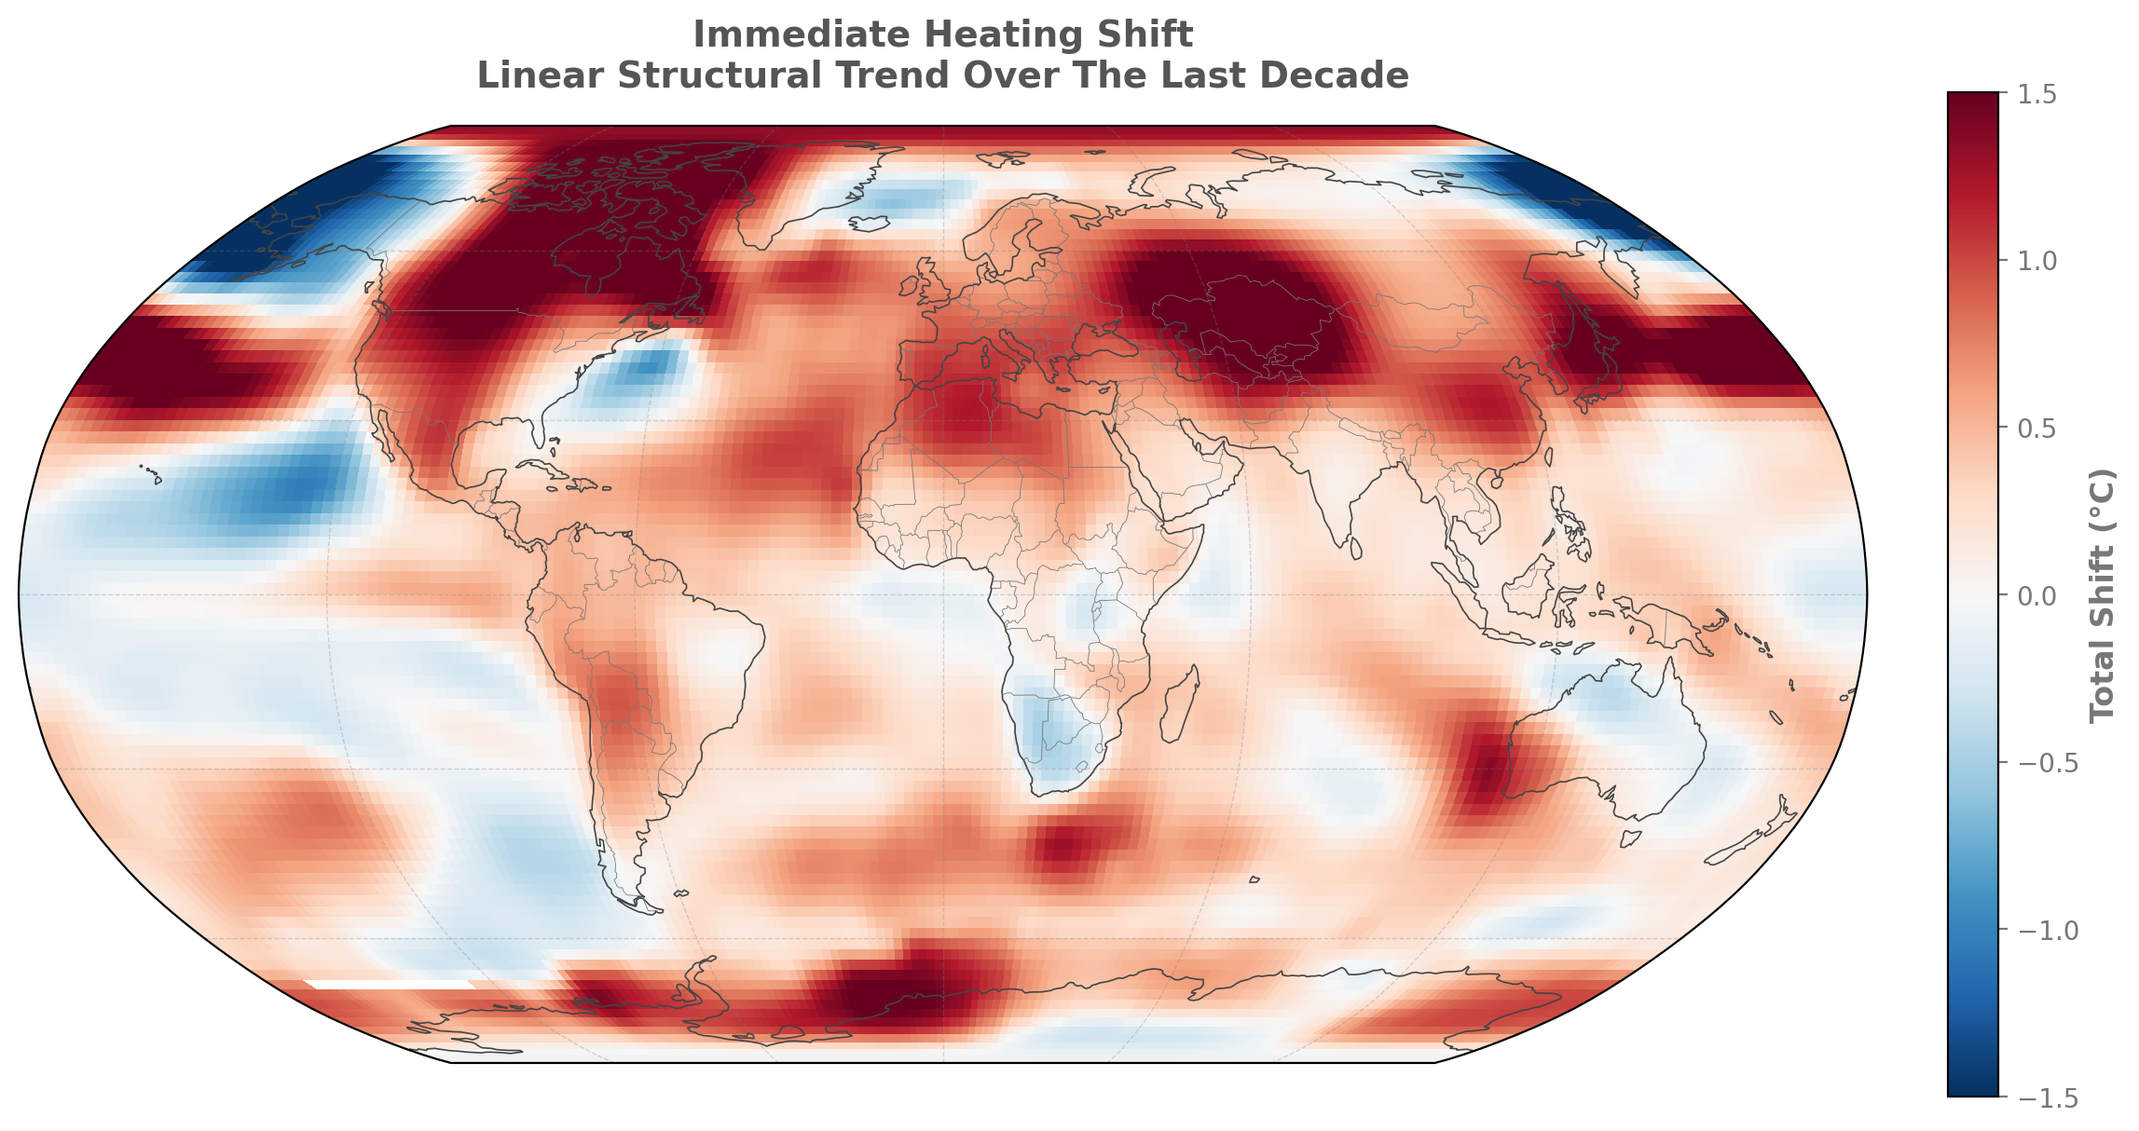
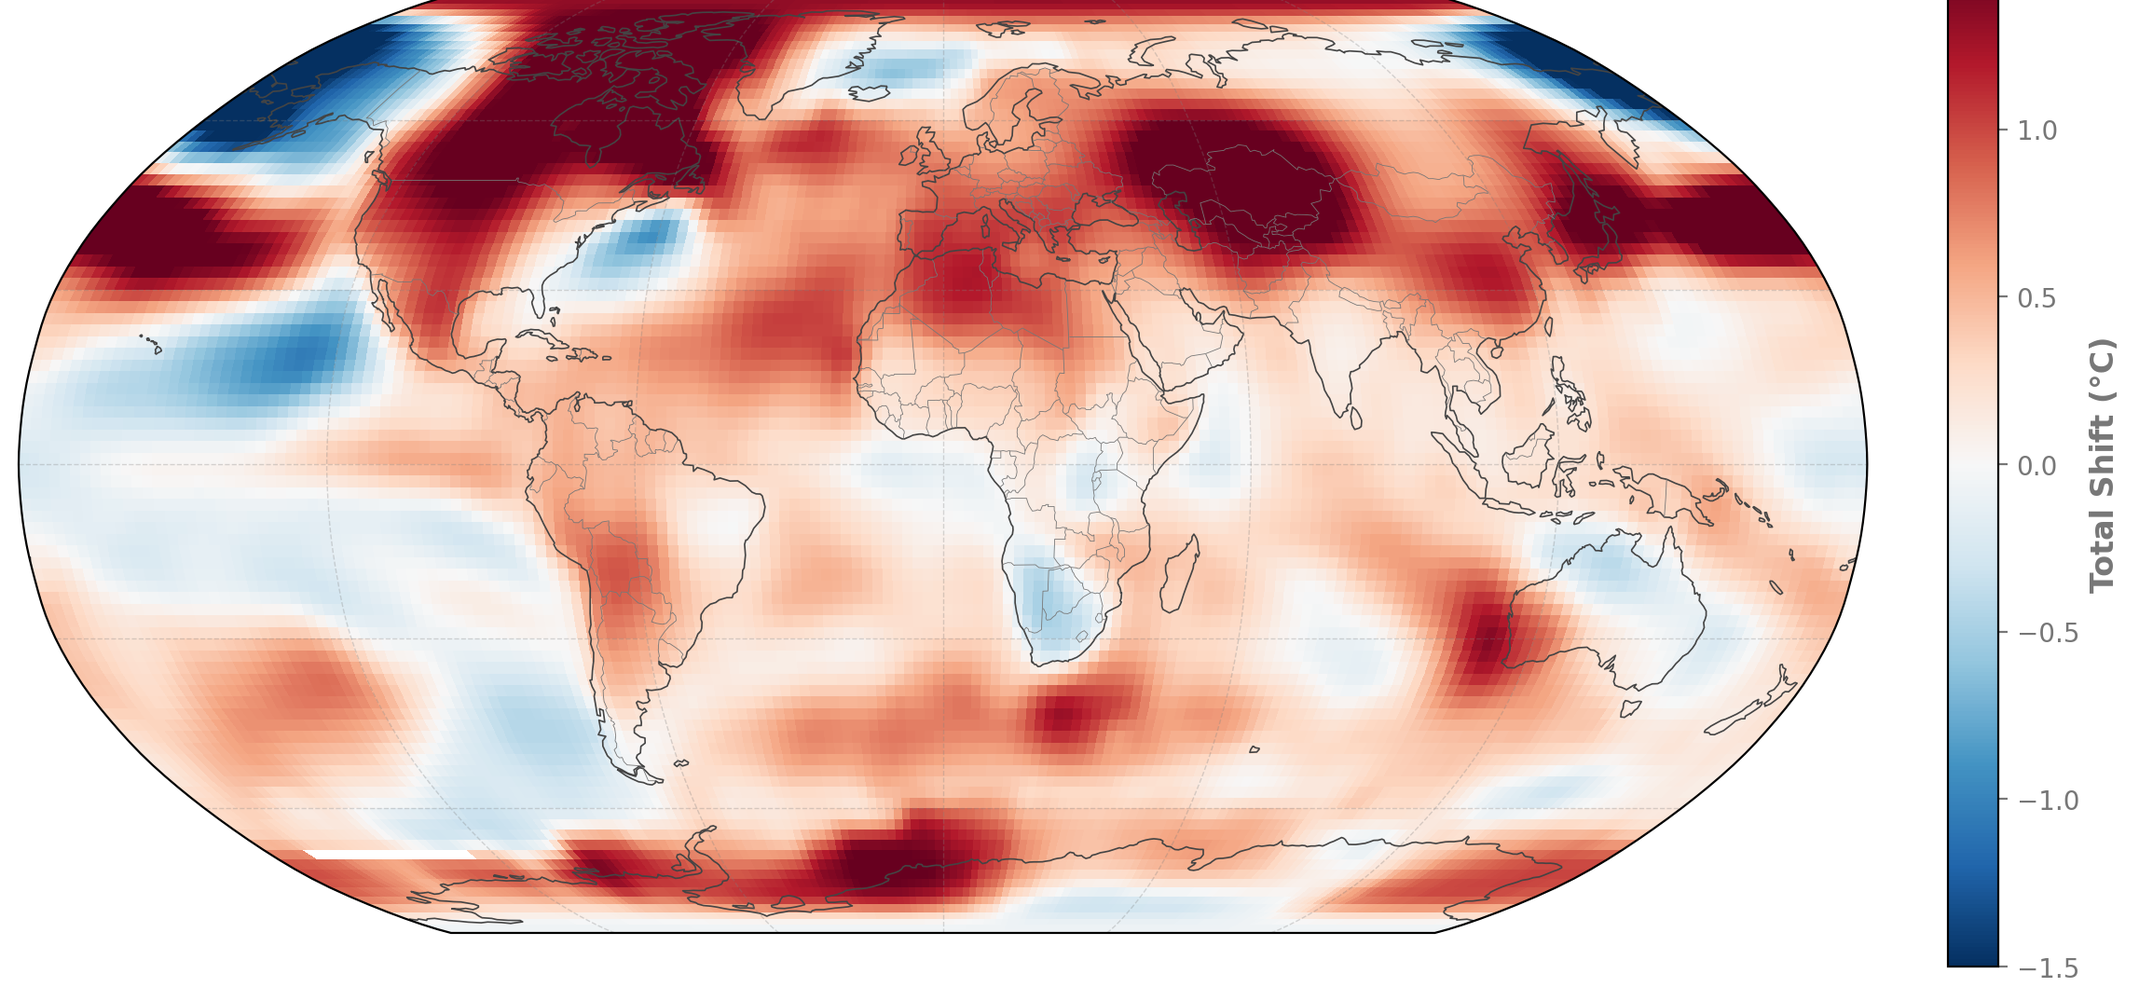
Add dataset attribution to Figure 1 and crop embedded titles out of map images

diff --git a/public/projects/global-temperature-tracker/assets/index-u014DEU0.js b/public/projects/global-temperature-tracker/assets/index-u014DEU0.js
@@ -126,4 +126,4 @@ Error generating stack: `+e.message+`
              object-fit: contain;
              filter: ${t?`brightness(0.9) contrast(1.1)`:`none`};
           }
-        `}),(0,Q.jsx)(`div`,{className:`map-container`,children:(0,Q.jsx)(iK.img,{src:`./gistemp_variance_trend_map.png`,alt:`Visualization of accelerating or decelerating geospatial climate variance volatility matrices spanning historically rolling distributions`,className:`map-image`,initial:{opacity:0,scale:.98},animate:{opacity:1,scale:1},transition:{duration:.6}})}),(0,Q.jsx)(`p`,{style:{marginTop:`12px`,fontSize:`0.85rem`,color:t?`#9ca3af`:`#6b7280`,textAlign:`center`},children:`Dataset: NASA GISTEMP v4. Volatility mapped as the least-squares structural trend calculated continuously against rolling 5-year internal standard deviation vectors globally.`})]})},uK=(...e)=>e.filter((e,t,n)=>!!e&&e.trim()!==``&&n.indexOf(e)===t).join(` `).trim(),dK=e=>e.replace(/([a-z0-9])([A-Z])/g,`$1-$2`).toLowerCase(),fK=e=>e.replace(/^([A-Z])|[\s-_]+(\w)/g,(e,t,n)=>n?n.toUpperCase():t.toLowerCase()),pK=e=>{let t=fK(e);return t.charAt(0).toUpperCase()+t.slice(1)},mK={xmlns:`http://www.w3.org/2000/svg`,width:24,height:24,viewBox:`0 0 24 24`,fill:`none`,stroke:`currentColor`,strokeWidth:2,strokeLinecap:`round`,strokeLinejoin:`round`},hK=e=>{for(let t in e)if(t.startsWith(`aria-`)||t===`role`||t===`title`)return!0;return!1},gK=(0,b.createContext)({}),_K=()=>(0,b.useContext)(gK),vK=(0,b.forwardRef)(({color:e,size:t,strokeWidth:n,absoluteStrokeWidth:r,className:i=``,children:a,iconNode:o,...s},c)=>{let{size:l=24,strokeWidth:u=2,absoluteStrokeWidth:d=!1,color:f=`currentColor`,className:p=``}=_K()??{},m=r??d?Number(n??u)*24/Number(t??l):n??u;return(0,b.createElement)(`svg`,{ref:c,...mK,width:t??l??mK.width,height:t??l??mK.height,stroke:e??f,strokeWidth:m,className:uK(`lucide`,p,i),...!a&&!hK(s)&&{"aria-hidden":`true`},...s},[...o.map(([e,t])=>(0,b.createElement)(e,t)),...Array.isArray(a)?a:[a]])}),yK=(e,t)=>{let n=(0,b.forwardRef)(({className:n,...r},i)=>(0,b.createElement)(vK,{ref:i,iconNode:t,className:uK(`lucide-${dK(pK(e))}`,`lucide-${e}`,n),...r}));return n.displayName=pK(e),n},bK=yK(`thermometer`,[[`path`,{d:`M14 4v10.54a4 4 0 1 1-4 0V4a2 2 0 0 1 4 0Z`,key:`17jzev`}]]),xK=yK(`triangle-alert`,[[`path`,{d:`m21.73 18-8-14a2 2 0 0 0-3.48 0l-8 14A2 2 0 0 0 4 21h16a2 2 0 0 0 1.73-3`,key:`wmoenq`}],[`path`,{d:`M12 9v4`,key:`juzpu7`}],[`path`,{d:`M12 17h.01`,key:`p32p05`}]]);function SK(){let[e,t]=(0,b.useState)(null),[n,r]=(0,b.useState)(null),[i,a]=(0,b.useState)(!0),[o,s]=(0,b.useState)(null),[c,l]=(0,b.useState)(`light`),[u,d]=(0,b.useState)(`long-term`);return(0,b.useEffect)(()=>{Promise.all([fetch(`./data.json`).then(e=>{if(!e.ok)throw Error(`Failed to fetch primary data`);return e.json()}),fetch(`./cmip6_data.json`).then(e=>{if(!e.ok)throw Error(`Failed to fetch CMIP6 proxy data`);return e.json()})]).then(([e,n])=>{t(S(e)),r(n),a(!1)}).catch(e=>{console.error(e),s(e.message),a(!1)})},[]),i?(0,Q.jsxs)(`div`,{className:`loading-container`,children:[(0,Q.jsx)(iK.div,{animate:{rotate:360},transition:{duration:1.5,repeat:1/0,ease:`linear`},children:(0,Q.jsx)(bK,{size:48,color:`#555`})}),(0,Q.jsx)(`p`,{className:`loading-text`,children:`Loading dataset...`})]}):o?(0,Q.jsxs)(`div`,{className:`error-container`,children:[(0,Q.jsx)(xK,{size:48,className:`error-icon`}),(0,Q.jsx)(`h2`,{className:`error-title`,children:`Data Acquisition Failed`}),(0,Q.jsx)(`p`,{children:o})]}):(0,Q.jsxs)(`div`,{className:`app-wrapper`,children:[(0,Q.jsxs)(`div`,{className:`container`,style:{paddingBottom:0},children:[(0,Q.jsxs)(`header`,{className:`app-header`,children:[(0,Q.jsxs)(`div`,{className:`header-title-container`,children:[(0,Q.jsx)(`h1`,{className:`header-title`,children:`Daily Surface Air Temperature`}),(0,Q.jsx)(`p`,{className:`header-subtitle`,children:`World (90°S–90°N, 0–360°E)`}),(0,Q.jsxs)(`div`,{style:{display:`flex`,gap:`10px`,marginTop:`20px`},children:[(0,Q.jsx)(`button`,{onClick:()=>d(`long-term`),style:{padding:`8px 16px`,borderRadius:`6px`,border:`1px solid ${c===`dark`?`#555`:`#ddd`}`,backgroundColor:u===`long-term`?c===`dark`?`#3b82f6`:`#2563eb`:`transparent`,color:u===`long-term`?`#fff`:c===`dark`?`#ccc`:`#333`,cursor:`pointer`,fontWeight:u===`long-term`?`bold`:`normal`,transition:`all 0.2s`},children:`Long-Term Trends`}),(0,Q.jsx)(`button`,{onClick:()=>d(`focus-2026`),style:{padding:`8px 16px`,borderRadius:`6px`,border:`1px solid ${c===`dark`?`#555`:`#ddd`}`,backgroundColor:u===`focus-2026`?c===`dark`?`#3b82f6`:`#2563eb`:`transparent`,color:u===`focus-2026`?`#fff`:c===`dark`?`#ccc`:`#333`,cursor:`pointer`,fontWeight:u===`focus-2026`?`bold`:`normal`,transition:`all 0.2s`},children:`2026 Focus`})]})]}),(0,Q.jsx)(`button`,{onClick:()=>{let e=c===`light`?`dark`:`light`;l(e),document.documentElement.setAttribute(`data-theme`,e)},className:`theme-toggle`,"aria-label":`Toggle theme`,children:c===`light`?`Dark Mode`:`Light Mode`})]}),(0,Q.jsxs)(`main`,{className:`app-main`,children:[u===`long-term`&&(0,Q.jsxs)(Q.Fragment,{children:[(0,Q.jsxs)(`section`,{className:`chart-section`,style:{marginBottom:`20px`},children:[(0,Q.jsxs)(`div`,{className:`figure-intro`,children:[(0,Q.jsx)(`h3`,{children:`Model Projections vs. Observations`}),(0,Q.jsx)(`p`,{className:`figure-lead`,children:`A comparison of historical global average surface temperatures against the CMIP6 climate model ensemble. This helps visualize where recent warming sits relative to the long-term modeled uncertainty envelope.`}),(0,Q.jsx)(`p`,{children:`The colorful dots clustered around 2026/27 show expert predictions for near-term global temperatures. The gray dashed line outlines a plausible scenario for the trajectory; intuitively, we expect 2027 to break global records due to the forecasted El Niño event, followed by a brief period of stabilization. The pink envelope highlights uncertainty bounds using climate models screened for accurate historical sensitivity, while the gray envelope represents the broader, unscreened range of climate simulations. The vertical orange band highlights the period when the 10-year average temperature is likely to cross the 1.5°C (above pre-industrial) threshold.`})]}),(0,Q.jsx)(`div`,{className:`chart-content`,children:(0,Q.jsx)(SF,{data:n,theme:c})})]}),(0,Q.jsxs)(`section`,{className:`chart-section`,style:{marginBottom:`20px`},children:[(0,Q.jsxs)(`div`,{className:`figure-intro`,children:[(0,Q.jsx)(`h3`,{children:`Long-term Global Warming Trend`}),(0,Q.jsx)(`p`,{children:`Spatial distribution of long-term warming trends calculated across the global surface. Blue areas denote cooling or slower warming, while dark reds highlight regions (such as the Arctic) experiencing outsized warming.`})]}),(0,Q.jsx)(aK,{theme:c})]}),(0,Q.jsxs)(`section`,{className:`chart-section`,style:{marginTop:`20px`},children:[(0,Q.jsxs)(`div`,{className:`figure-intro`,children:[(0,Q.jsx)(`h3`,{children:`Temperature Standard Deviation`}),(0,Q.jsx)(`p`,{children:`A mapping of the historical standard deviation of surface temperatures. Areas of high variance generally experience wider seasonal or localized inter-annual temperature swings, providing context to the structural warming trends.`})]}),(0,Q.jsx)(`div`,{className:`chart-content`,children:(0,Q.jsx)(cK,{theme:c})})]}),(0,Q.jsxs)(`section`,{className:`chart-section`,style:{marginTop:`20px`},children:[(0,Q.jsxs)(`div`,{className:`figure-intro`,children:[(0,Q.jsx)(`h3`,{children:`Variance Trend Mapping`}),(0,Q.jsx)(`p`,{children:`This visualization illustrates the temporal trend in temperature variance—highlighting regions where temperature volatility itself is increasing or decreasing over time, regardless of the underlying warming trajectory.`})]}),(0,Q.jsx)(`div`,{className:`chart-content`,children:(0,Q.jsx)(lK,{theme:c})})]})]}),u===`focus-2026`&&(0,Q.jsxs)(Q.Fragment,{children:[(0,Q.jsxs)(`section`,{className:`chart-section`,children:[(0,Q.jsxs)(`div`,{className:`figure-intro`,children:[(0,Q.jsx)(`h3`,{children:`Daily Surface Air Temperature`}),(0,Q.jsx)(`p`,{children:`Tracking daily global surface temperatures against historical norms. This high-frequency pulse highlights recent heat anomalies (like the 2023–2024 spike) against the decadal baseline and model tracking.`})]}),(0,Q.jsx)(`div`,{className:`chart-content`,children:(0,Q.jsx)(mF,{data:e,theme:c})})]}),(0,Q.jsxs)(`section`,{className:`chart-section`,style:{marginTop:`20px`},children:[(0,Q.jsxs)(`div`,{className:`figure-intro`,children:[(0,Q.jsx)(`h3`,{children:`Recent Anomaly Map`}),(0,Q.jsx)(`p`,{children:`The spatial footprint of the most recent extreme heat events. This highlights how planetary-scale warming manifests regionally, emphasizing outsized anomalies in specific terrestrial or oceanographic basins.`})]}),(0,Q.jsx)(`div`,{className:`chart-content`,children:(0,Q.jsx)(oK,{theme:c})})]}),(0,Q.jsxs)(`section`,{className:`chart-section`,style:{marginTop:`20px`},children:[(0,Q.jsxs)(`div`,{className:`figure-intro`,children:[(0,Q.jsx)(`h3`,{children:`Recent Difference Mapping`}),(0,Q.jsx)(`p`,{children:`Comparing the latest temporal window against an immediately preceding baseline to visualize the rate-of-change and identify regions experiencing emergent, rapid shifts in temperature dynamics.`})]}),(0,Q.jsx)(`div`,{className:`chart-content`,children:(0,Q.jsx)(sK,{theme:c})})]})]})]})]}),(0,Q.jsx)(`footer`,{className:`app-footer`,children:(0,Q.jsx)(`div`,{className:`container w-100`,children:(0,Q.jsxs)(`p`,{children:[`Dataset: ERA5 (Copernicus Climate Change Service)`,(0,Q.jsx)(`br`,{}),`Styled strictly to mirror Climate Reanalyzer exact layout & colors.`]})})})]})}(0,x.createRoot)(document.getElementById(`root`)).render((0,Q.jsx)(b.StrictMode,{children:(0,Q.jsx)(SK,{})}));
+        `}),(0,Q.jsx)(`div`,{className:`map-container`,children:(0,Q.jsx)(iK.img,{src:`./gistemp_variance_trend_map.png`,alt:`Visualization of accelerating or decelerating geospatial climate variance volatility matrices spanning historically rolling distributions`,className:`map-image`,initial:{opacity:0,scale:.98},animate:{opacity:1,scale:1},transition:{duration:.6}})}),(0,Q.jsx)(`p`,{style:{marginTop:`12px`,fontSize:`0.85rem`,color:t?`#9ca3af`:`#6b7280`,textAlign:`center`},children:`Dataset: NASA GISTEMP v4. Volatility mapped as the least-squares structural trend calculated continuously against rolling 5-year internal standard deviation vectors globally.`})]})},uK=(...e)=>e.filter((e,t,n)=>!!e&&e.trim()!==``&&n.indexOf(e)===t).join(` `).trim(),dK=e=>e.replace(/([a-z0-9])([A-Z])/g,`$1-$2`).toLowerCase(),fK=e=>e.replace(/^([A-Z])|[\s-_]+(\w)/g,(e,t,n)=>n?n.toUpperCase():t.toLowerCase()),pK=e=>{let t=fK(e);return t.charAt(0).toUpperCase()+t.slice(1)},mK={xmlns:`http://www.w3.org/2000/svg`,width:24,height:24,viewBox:`0 0 24 24`,fill:`none`,stroke:`currentColor`,strokeWidth:2,strokeLinecap:`round`,strokeLinejoin:`round`},hK=e=>{for(let t in e)if(t.startsWith(`aria-`)||t===`role`||t===`title`)return!0;return!1},gK=(0,b.createContext)({}),_K=()=>(0,b.useContext)(gK),vK=(0,b.forwardRef)(({color:e,size:t,strokeWidth:n,absoluteStrokeWidth:r,className:i=``,children:a,iconNode:o,...s},c)=>{let{size:l=24,strokeWidth:u=2,absoluteStrokeWidth:d=!1,color:f=`currentColor`,className:p=``}=_K()??{},m=r??d?Number(n??u)*24/Number(t??l):n??u;return(0,b.createElement)(`svg`,{ref:c,...mK,width:t??l??mK.width,height:t??l??mK.height,stroke:e??f,strokeWidth:m,className:uK(`lucide`,p,i),...!a&&!hK(s)&&{"aria-hidden":`true`},...s},[...o.map(([e,t])=>(0,b.createElement)(e,t)),...Array.isArray(a)?a:[a]])}),yK=(e,t)=>{let n=(0,b.forwardRef)(({className:n,...r},i)=>(0,b.createElement)(vK,{ref:i,iconNode:t,className:uK(`lucide-${dK(pK(e))}`,`lucide-${e}`,n),...r}));return n.displayName=pK(e),n},bK=yK(`thermometer`,[[`path`,{d:`M14 4v10.54a4 4 0 1 1-4 0V4a2 2 0 0 1 4 0Z`,key:`17jzev`}]]),xK=yK(`triangle-alert`,[[`path`,{d:`m21.73 18-8-14a2 2 0 0 0-3.48 0l-8 14A2 2 0 0 0 4 21h16a2 2 0 0 0 1.73-3`,key:`wmoenq`}],[`path`,{d:`M12 9v4`,key:`juzpu7`}],[`path`,{d:`M12 17h.01`,key:`p32p05`}]]);function SK(){let[e,t]=(0,b.useState)(null),[n,r]=(0,b.useState)(null),[i,a]=(0,b.useState)(!0),[o,s]=(0,b.useState)(null),[c,l]=(0,b.useState)(`light`),[u,d]=(0,b.useState)(`long-term`);return(0,b.useEffect)(()=>{Promise.all([fetch(`./data.json`).then(e=>{if(!e.ok)throw Error(`Failed to fetch primary data`);return e.json()}),fetch(`./cmip6_data.json`).then(e=>{if(!e.ok)throw Error(`Failed to fetch CMIP6 proxy data`);return e.json()})]).then(([e,n])=>{t(S(e)),r(n),a(!1)}).catch(e=>{console.error(e),s(e.message),a(!1)})},[]),i?(0,Q.jsxs)(`div`,{className:`loading-container`,children:[(0,Q.jsx)(iK.div,{animate:{rotate:360},transition:{duration:1.5,repeat:1/0,ease:`linear`},children:(0,Q.jsx)(bK,{size:48,color:`#555`})}),(0,Q.jsx)(`p`,{className:`loading-text`,children:`Loading dataset...`})]}):o?(0,Q.jsxs)(`div`,{className:`error-container`,children:[(0,Q.jsx)(xK,{size:48,className:`error-icon`}),(0,Q.jsx)(`h2`,{className:`error-title`,children:`Data Acquisition Failed`}),(0,Q.jsx)(`p`,{children:o})]}):(0,Q.jsxs)(`div`,{className:`app-wrapper`,children:[(0,Q.jsxs)(`div`,{className:`container`,style:{paddingBottom:0},children:[(0,Q.jsxs)(`header`,{className:`app-header`,children:[(0,Q.jsxs)(`div`,{className:`header-title-container`,children:[(0,Q.jsx)(`h1`,{className:`header-title`,children:`Daily Surface Air Temperature`}),(0,Q.jsx)(`p`,{className:`header-subtitle`,children:`World (90°S–90°N, 0–360°E)`}),(0,Q.jsxs)(`div`,{style:{display:`flex`,gap:`10px`,marginTop:`20px`},children:[(0,Q.jsx)(`button`,{onClick:()=>d(`long-term`),style:{padding:`8px 16px`,borderRadius:`6px`,border:`1px solid ${c===`dark`?`#555`:`#ddd`}`,backgroundColor:u===`long-term`?c===`dark`?`#3b82f6`:`#2563eb`:`transparent`,color:u===`long-term`?`#fff`:c===`dark`?`#ccc`:`#333`,cursor:`pointer`,fontWeight:u===`long-term`?`bold`:`normal`,transition:`all 0.2s`},children:`Long-Term Trends`}),(0,Q.jsx)(`button`,{onClick:()=>d(`focus-2026`),style:{padding:`8px 16px`,borderRadius:`6px`,border:`1px solid ${c===`dark`?`#555`:`#ddd`}`,backgroundColor:u===`focus-2026`?c===`dark`?`#3b82f6`:`#2563eb`:`transparent`,color:u===`focus-2026`?`#fff`:c===`dark`?`#ccc`:`#333`,cursor:`pointer`,fontWeight:u===`focus-2026`?`bold`:`normal`,transition:`all 0.2s`},children:`2026 Focus`})]})]}),(0,Q.jsx)(`button`,{onClick:()=>{let e=c===`light`?`dark`:`light`;l(e),document.documentElement.setAttribute(`data-theme`,e)},className:`theme-toggle`,"aria-label":`Toggle theme`,children:c===`light`?`Dark Mode`:`Light Mode`})]}),(0,Q.jsxs)(`main`,{className:`app-main`,children:[u===`long-term`&&(0,Q.jsxs)(Q.Fragment,{children:[(0,Q.jsxs)(`section`,{className:`chart-section`,style:{marginBottom:`20px`},children:[(0,Q.jsxs)(`div`,{className:`figure-intro`,children:[(0,Q.jsx)(`h3`,{children:`Model Projections vs. Observations`}),(0,Q.jsx)(`p`,{className:`figure-lead`,children:`A comparison of historical global average surface temperatures against the CMIP6 climate model ensemble. This helps visualize where recent warming sits relative to the long-term modeled uncertainty envelope.`}),(0,Q.jsx)(`p`,{children:`The colorful dots clustered around 2026/27 show expert predictions for near-term global temperatures. The gray dashed line outlines a plausible scenario for the trajectory; intuitively, we expect 2027 to break global records due to the forecasted El Niño event, followed by a brief period of stabilization. The pink envelope highlights uncertainty bounds using climate models screened for accurate historical sensitivity, while the gray envelope represents the broader, unscreened range of climate simulations. The vertical orange band highlights the period when the 10-year average temperature is likely to cross the 1.5°C (above pre-industrial) threshold.`})]}),(0,Q.jsxs)(`div`,{className:`chart-content`,children:[(0,Q.jsx)(SF,{data:n,theme:c}),(0,Q.jsx)(`p`,{style:{marginTop:`12px`,fontSize:`0.85rem`,color:c===`dark`?`#9ca3af`:`#6b7280`,textAlign:`center`},children:`Dataset: NASA GISTEMP v4 (Observations) and CMIP6 Model Ensemble.`})]})]}),(0,Q.jsxs)(`section`,{className:`chart-section`,style:{marginBottom:`20px`},children:[(0,Q.jsxs)(`div`,{className:`figure-intro`,children:[(0,Q.jsx)(`h3`,{children:`Long-term Global Warming Trend`}),(0,Q.jsx)(`p`,{children:`Spatial distribution of long-term warming trends calculated across the global surface. Blue areas denote cooling or slower warming, while dark reds highlight regions (such as the Arctic) experiencing outsized warming.`})]}),(0,Q.jsx)(aK,{theme:c})]}),(0,Q.jsxs)(`section`,{className:`chart-section`,style:{marginTop:`20px`},children:[(0,Q.jsxs)(`div`,{className:`figure-intro`,children:[(0,Q.jsx)(`h3`,{children:`Temperature Standard Deviation`}),(0,Q.jsx)(`p`,{children:`A mapping of the historical standard deviation of surface temperatures. Areas of high variance generally experience wider seasonal or localized inter-annual temperature swings, providing context to the structural warming trends.`})]}),(0,Q.jsx)(`div`,{className:`chart-content`,children:(0,Q.jsx)(cK,{theme:c})})]}),(0,Q.jsxs)(`section`,{className:`chart-section`,style:{marginTop:`20px`},children:[(0,Q.jsxs)(`div`,{className:`figure-intro`,children:[(0,Q.jsx)(`h3`,{children:`Variance Trend Mapping`}),(0,Q.jsx)(`p`,{children:`This visualization illustrates the temporal trend in temperature variance—highlighting regions where temperature volatility itself is increasing or decreasing over time, regardless of the underlying warming trajectory.`})]}),(0,Q.jsx)(`div`,{className:`chart-content`,children:(0,Q.jsx)(lK,{theme:c})})]})]}),u===`focus-2026`&&(0,Q.jsxs)(Q.Fragment,{children:[(0,Q.jsxs)(`section`,{className:`chart-section`,children:[(0,Q.jsxs)(`div`,{className:`figure-intro`,children:[(0,Q.jsx)(`h3`,{children:`Daily Surface Air Temperature`}),(0,Q.jsx)(`p`,{children:`Tracking daily global surface temperatures against historical norms. This high-frequency pulse highlights recent heat anomalies (like the 2023–2024 spike) against the decadal baseline and model tracking.`})]}),(0,Q.jsx)(`div`,{className:`chart-content`,children:(0,Q.jsx)(mF,{data:e,theme:c})})]}),(0,Q.jsxs)(`section`,{className:`chart-section`,style:{marginTop:`20px`},children:[(0,Q.jsxs)(`div`,{className:`figure-intro`,children:[(0,Q.jsx)(`h3`,{children:`Recent Anomaly Map`}),(0,Q.jsx)(`p`,{children:`The spatial footprint of the most recent extreme heat events. This highlights how planetary-scale warming manifests regionally, emphasizing outsized anomalies in specific terrestrial or oceanographic basins.`})]}),(0,Q.jsx)(`div`,{className:`chart-content`,children:(0,Q.jsx)(oK,{theme:c})})]}),(0,Q.jsxs)(`section`,{className:`chart-section`,style:{marginTop:`20px`},children:[(0,Q.jsxs)(`div`,{className:`figure-intro`,children:[(0,Q.jsx)(`h3`,{children:`Recent Difference Mapping`}),(0,Q.jsx)(`p`,{children:`Comparing the latest temporal window against an immediately preceding baseline to visualize the rate-of-change and identify regions experiencing emergent, rapid shifts in temperature dynamics.`})]}),(0,Q.jsx)(`div`,{className:`chart-content`,children:(0,Q.jsx)(sK,{theme:c})})]})]})]})]}),(0,Q.jsx)(`footer`,{className:`app-footer`,children:(0,Q.jsx)(`div`,{className:`container w-100`,children:(0,Q.jsxs)(`p`,{children:[`Dataset: ERA5 (Copernicus Climate Change Service)`,(0,Q.jsx)(`br`,{}),`Styled strictly to mirror Climate Reanalyzer exact layout & colors.`]})})})]})}(0,x.createRoot)(document.getElementById(`root`)).render((0,Q.jsx)(b.StrictMode,{children:(0,Q.jsx)(SK,{})}));

diff --git a/public/projects/global-temperature-tracker/index.html b/public/projects/global-temperature-tracker/index.html
@@ -8,7 +8,7 @@
     <link rel="preconnect" href="https://fonts.googleapis.com">
     <link rel="preconnect" href="https://fonts.gstatic.com" crossorigin>
     <link href="https://fonts.googleapis.com/css2?family=EB+Garamond:ital,wght@0,400..800;1,400..800&family=Inter:wght@100..900&display=swap" rel="stylesheet">
-    <script type="module" crossorigin src="./assets/index-CsS_0RKw.js"></script>
+    <script type="module" crossorigin src="./assets/index-u014DEU0.js"></script>
     <link rel="stylesheet" crossorigin href="./assets/index-B7ZsDXpN.css">
   </head>
   <body>
